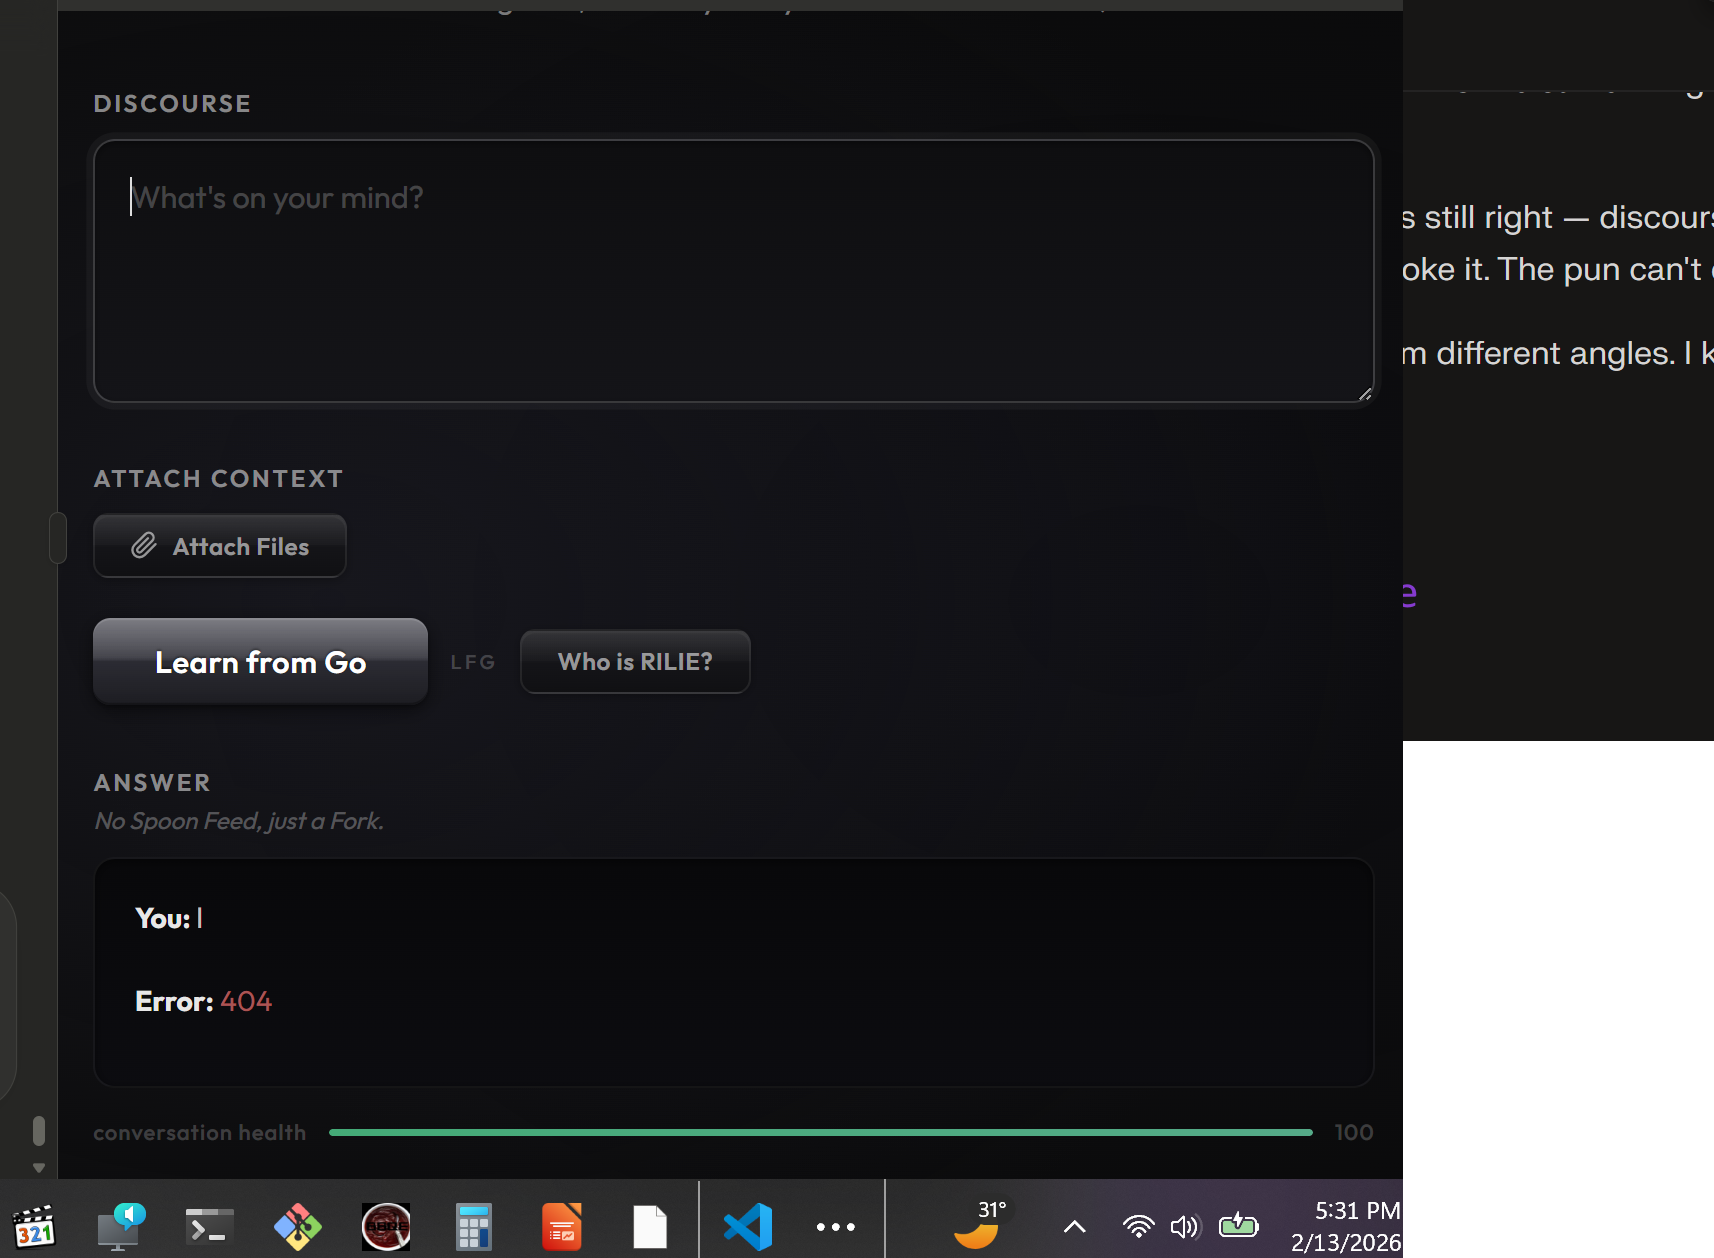
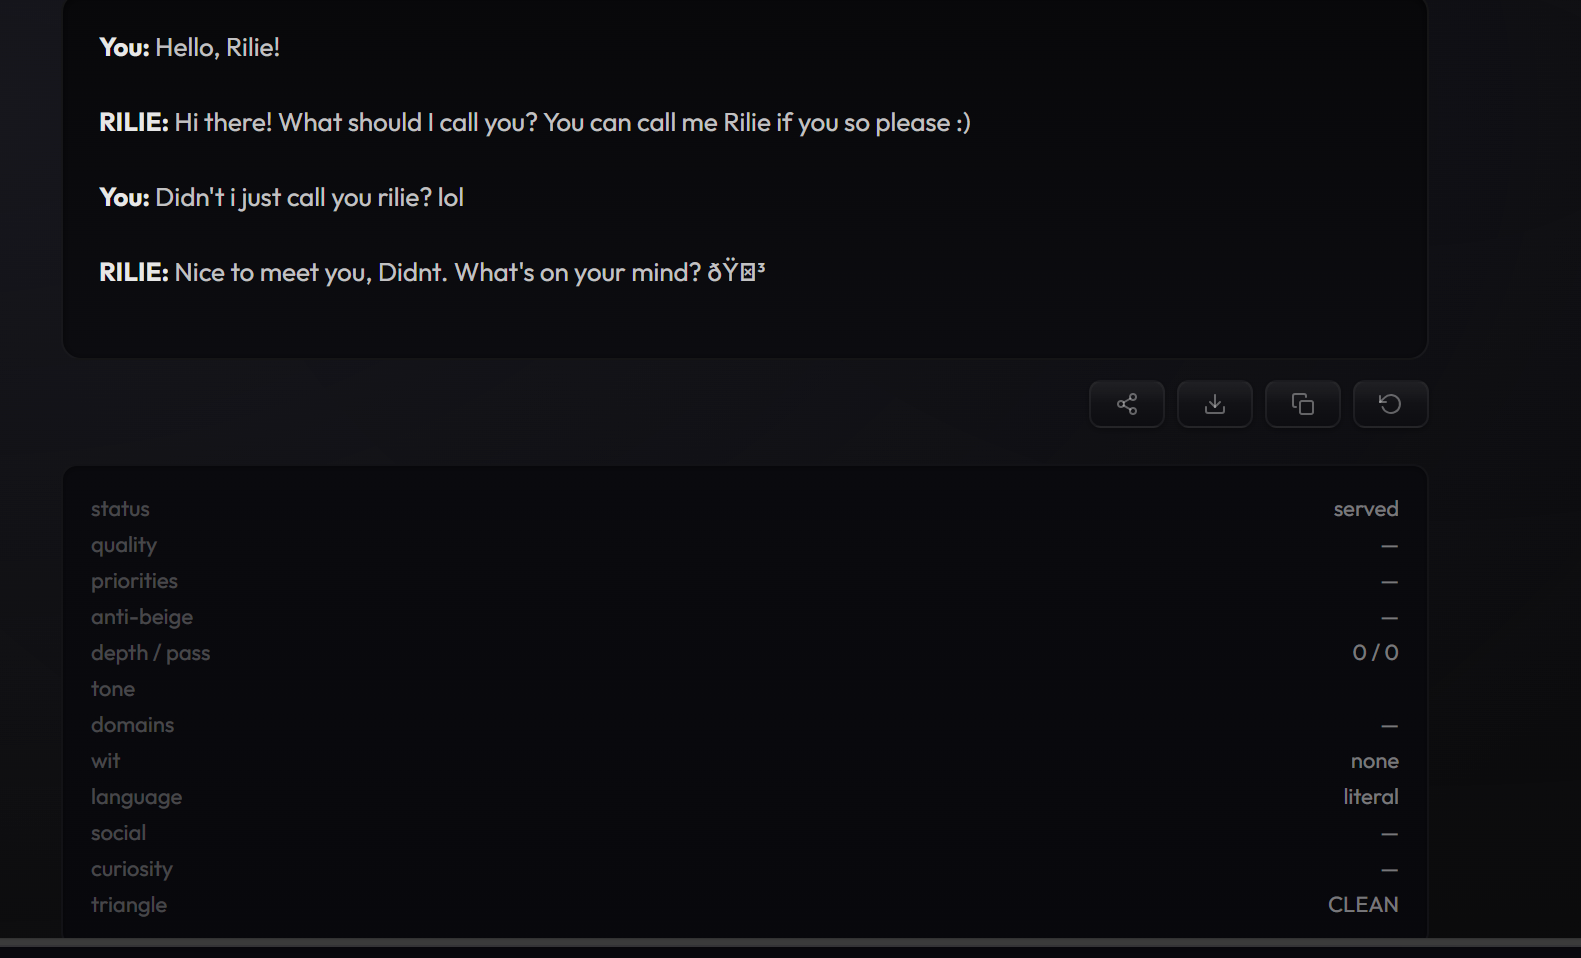
allthewaylive

diff --git a/rilie-client.html b/rilie-client.html
@@ -595,31 +595,8 @@
       <div class="rilie-title">RILIE (3,6,9)</div>
       <div class="rilie-subtitle">Real Intelligence, RI. Really? Play Around and Find Out :)</div>
 
-      <label class="rilie-label" for="rilie-input">Discourse</label>
-      <textarea id="rilie-input" class="rilie-textarea" placeholder="What's on your mind?"></textarea>
-
-      <!-- Custom file upload — no more ugly Choose Files -->
-      <div class="rilie-file">
-        <label class="rilie-label">Attach Context</label>
-        <div class="rilie-file-row">
-          <label for="rilie-files" class="rilie-file-btn">
-            <svg viewBox="0 0 24 24"><path d="M21.44 11.05l-9.19 9.19a6 6 0 0 1-8.49-8.49l9.19-9.19a4 4 0 0 1 5.66 5.66l-9.2 9.19a2 2 0 0 1-2.83-2.83l8.49-8.48"/></svg>
-            Attach Files
-          </label>
-          <input id="rilie-files" type="file" multiple />
-          <span id="rilie-file-names" class="rilie-file-names"></span>
-          <button id="rilie-file-clear" class="rilie-file-clear">&times; clear</button>
-        </div>
-      </div>
-
-      <div class="rilie-btn-wrap">
-        <button class="rilie-button" id="rilie-submit">Learn from Go</button>
-        <span class="rilie-lfg">LFG</span>
-        <button class="rilie-button-sm" id="rilie-self">Who is RILIE?</button>
-      </div>
-
-      <div class="rilie-output-label">Answer</div>
-      <div class="rilie-output-tagline">No Spoon Feed, just a Fork.</div>
+      <!-- OUTPUT ON TOP -->
+      <div class="rilie-output-label">Discourse</div>
       <div class="rilie-output-wrap">
         <div id="rilie-output" class="rilie-output"></div>
         <div id="rilie-output-actions" class="rilie-output-actions">
@@ -642,7 +619,31 @@
         </div>
       </div>
 
-      <div id="rilie-meta" class="rilie-meta">
+      <!-- INPUT AT BOTTOM -->
+      <label class="rilie-label" for="rilie-input">Your Turn</label>
+      <textarea id="rilie-input" class="rilie-textarea" placeholder="What's on your mind?"></textarea>
+
+      <!-- Custom file upload — no more ugly Choose Files -->
+      <div class="rilie-file">
+        <label class="rilie-label">Attach Context</label>
+        <div class="rilie-file-row">
+          <label for="rilie-files" class="rilie-file-btn">
+            <svg viewBox="0 0 24 24"><path d="M21.44 11.05l-9.19 9.19a6 6 0 0 1-8.49-8.49l9.19-9.19a4 4 0 0 1 5.66 5.66l-9.2 9.19a2 2 0 0 1-2.83-2.83l8.49-8.48"/></svg>
+            Attach Files
+          </label>
+          <input id="rilie-files" type="file" multiple />
+          <span id="rilie-file-names" class="rilie-file-names"></span>
+          <button id="rilie-file-clear" class="rilie-file-clear">&times; clear</button>
+        </div>
+      </div>
+
+      <div class="rilie-btn-wrap">
+        <button class="rilie-button" id="rilie-submit">Learn from Go</button>
+        <span class="rilie-lfg">LFG</span>
+        <button class="rilie-button-sm" id="rilie-self">Who is RILIE?</button>
+      </div>
+
+      <div id="rilie-meta" class="rilie-meta" style="display: none;">
         <div class="rilie-meta-row"><span class="rilie-meta-key">status</span><span class="rilie-meta-val" id="meta-status">—</span></div>
         <div class="rilie-meta-row"><span class="rilie-meta-key">quality</span><span class="rilie-meta-val" id="meta-quality">—</span></div>
         <div class="rilie-meta-row"><span class="rilie-meta-key">priorities</span><span class="rilie-meta-val" id="meta-priorities">—</span></div>
